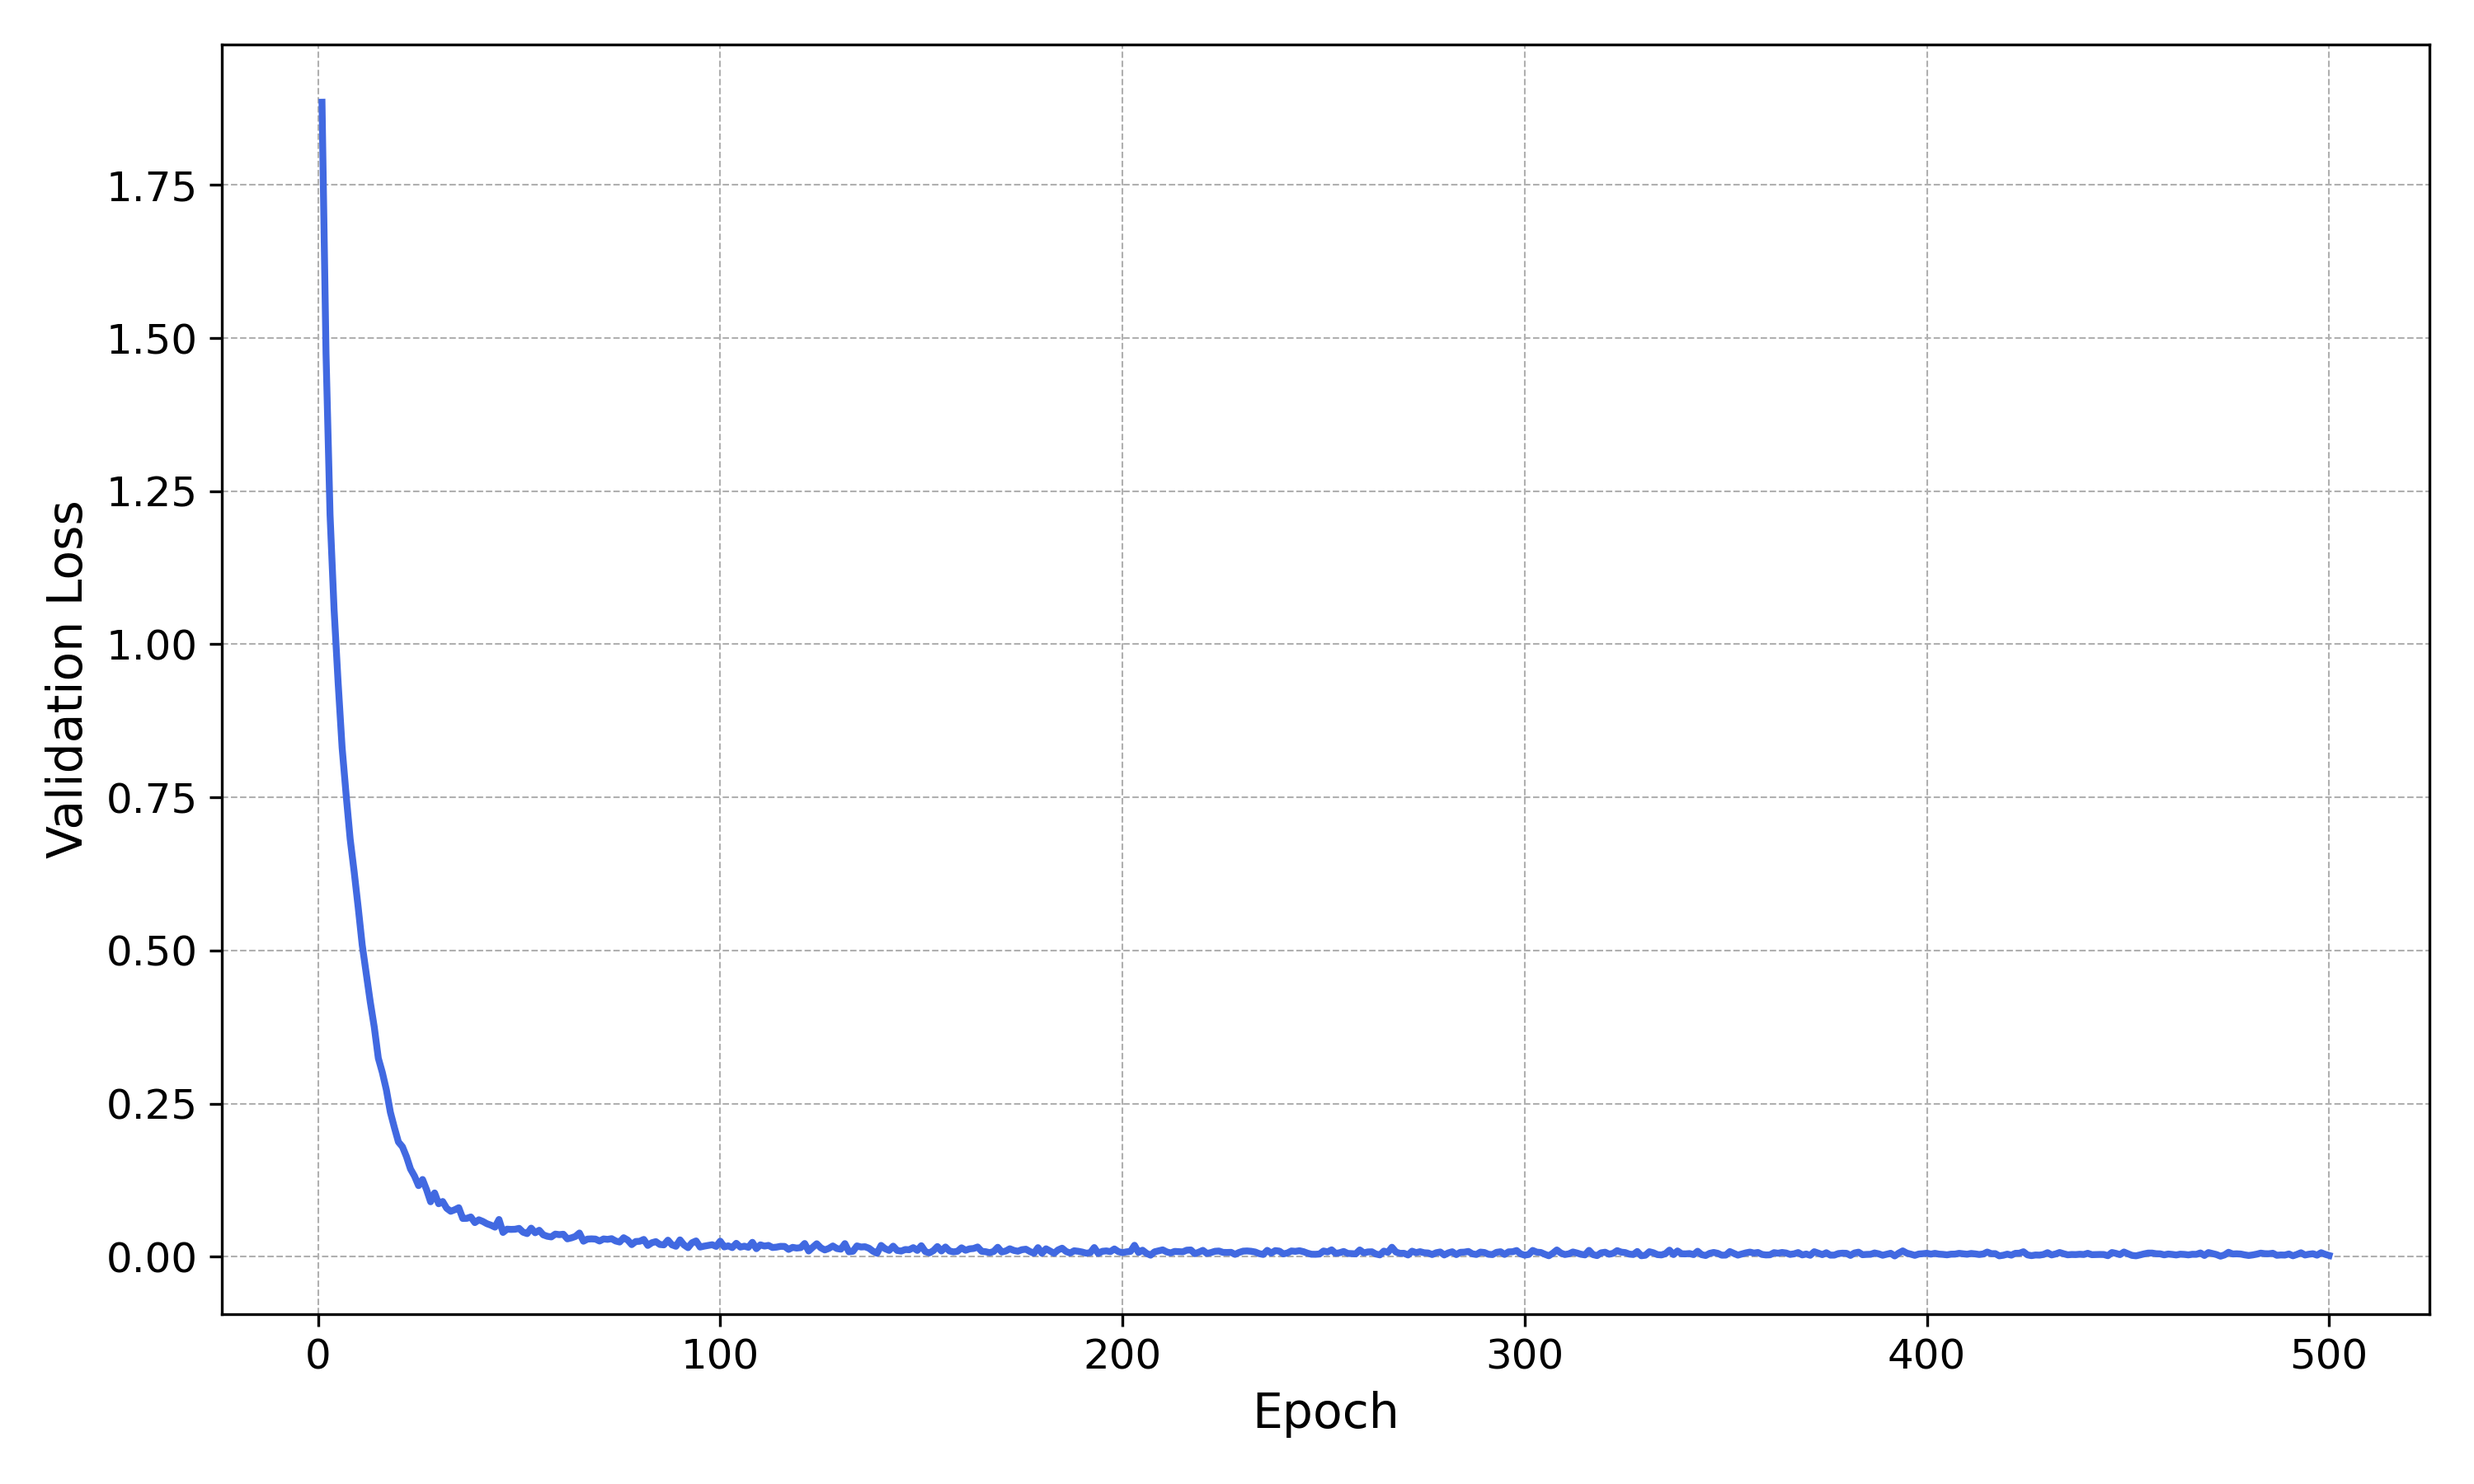
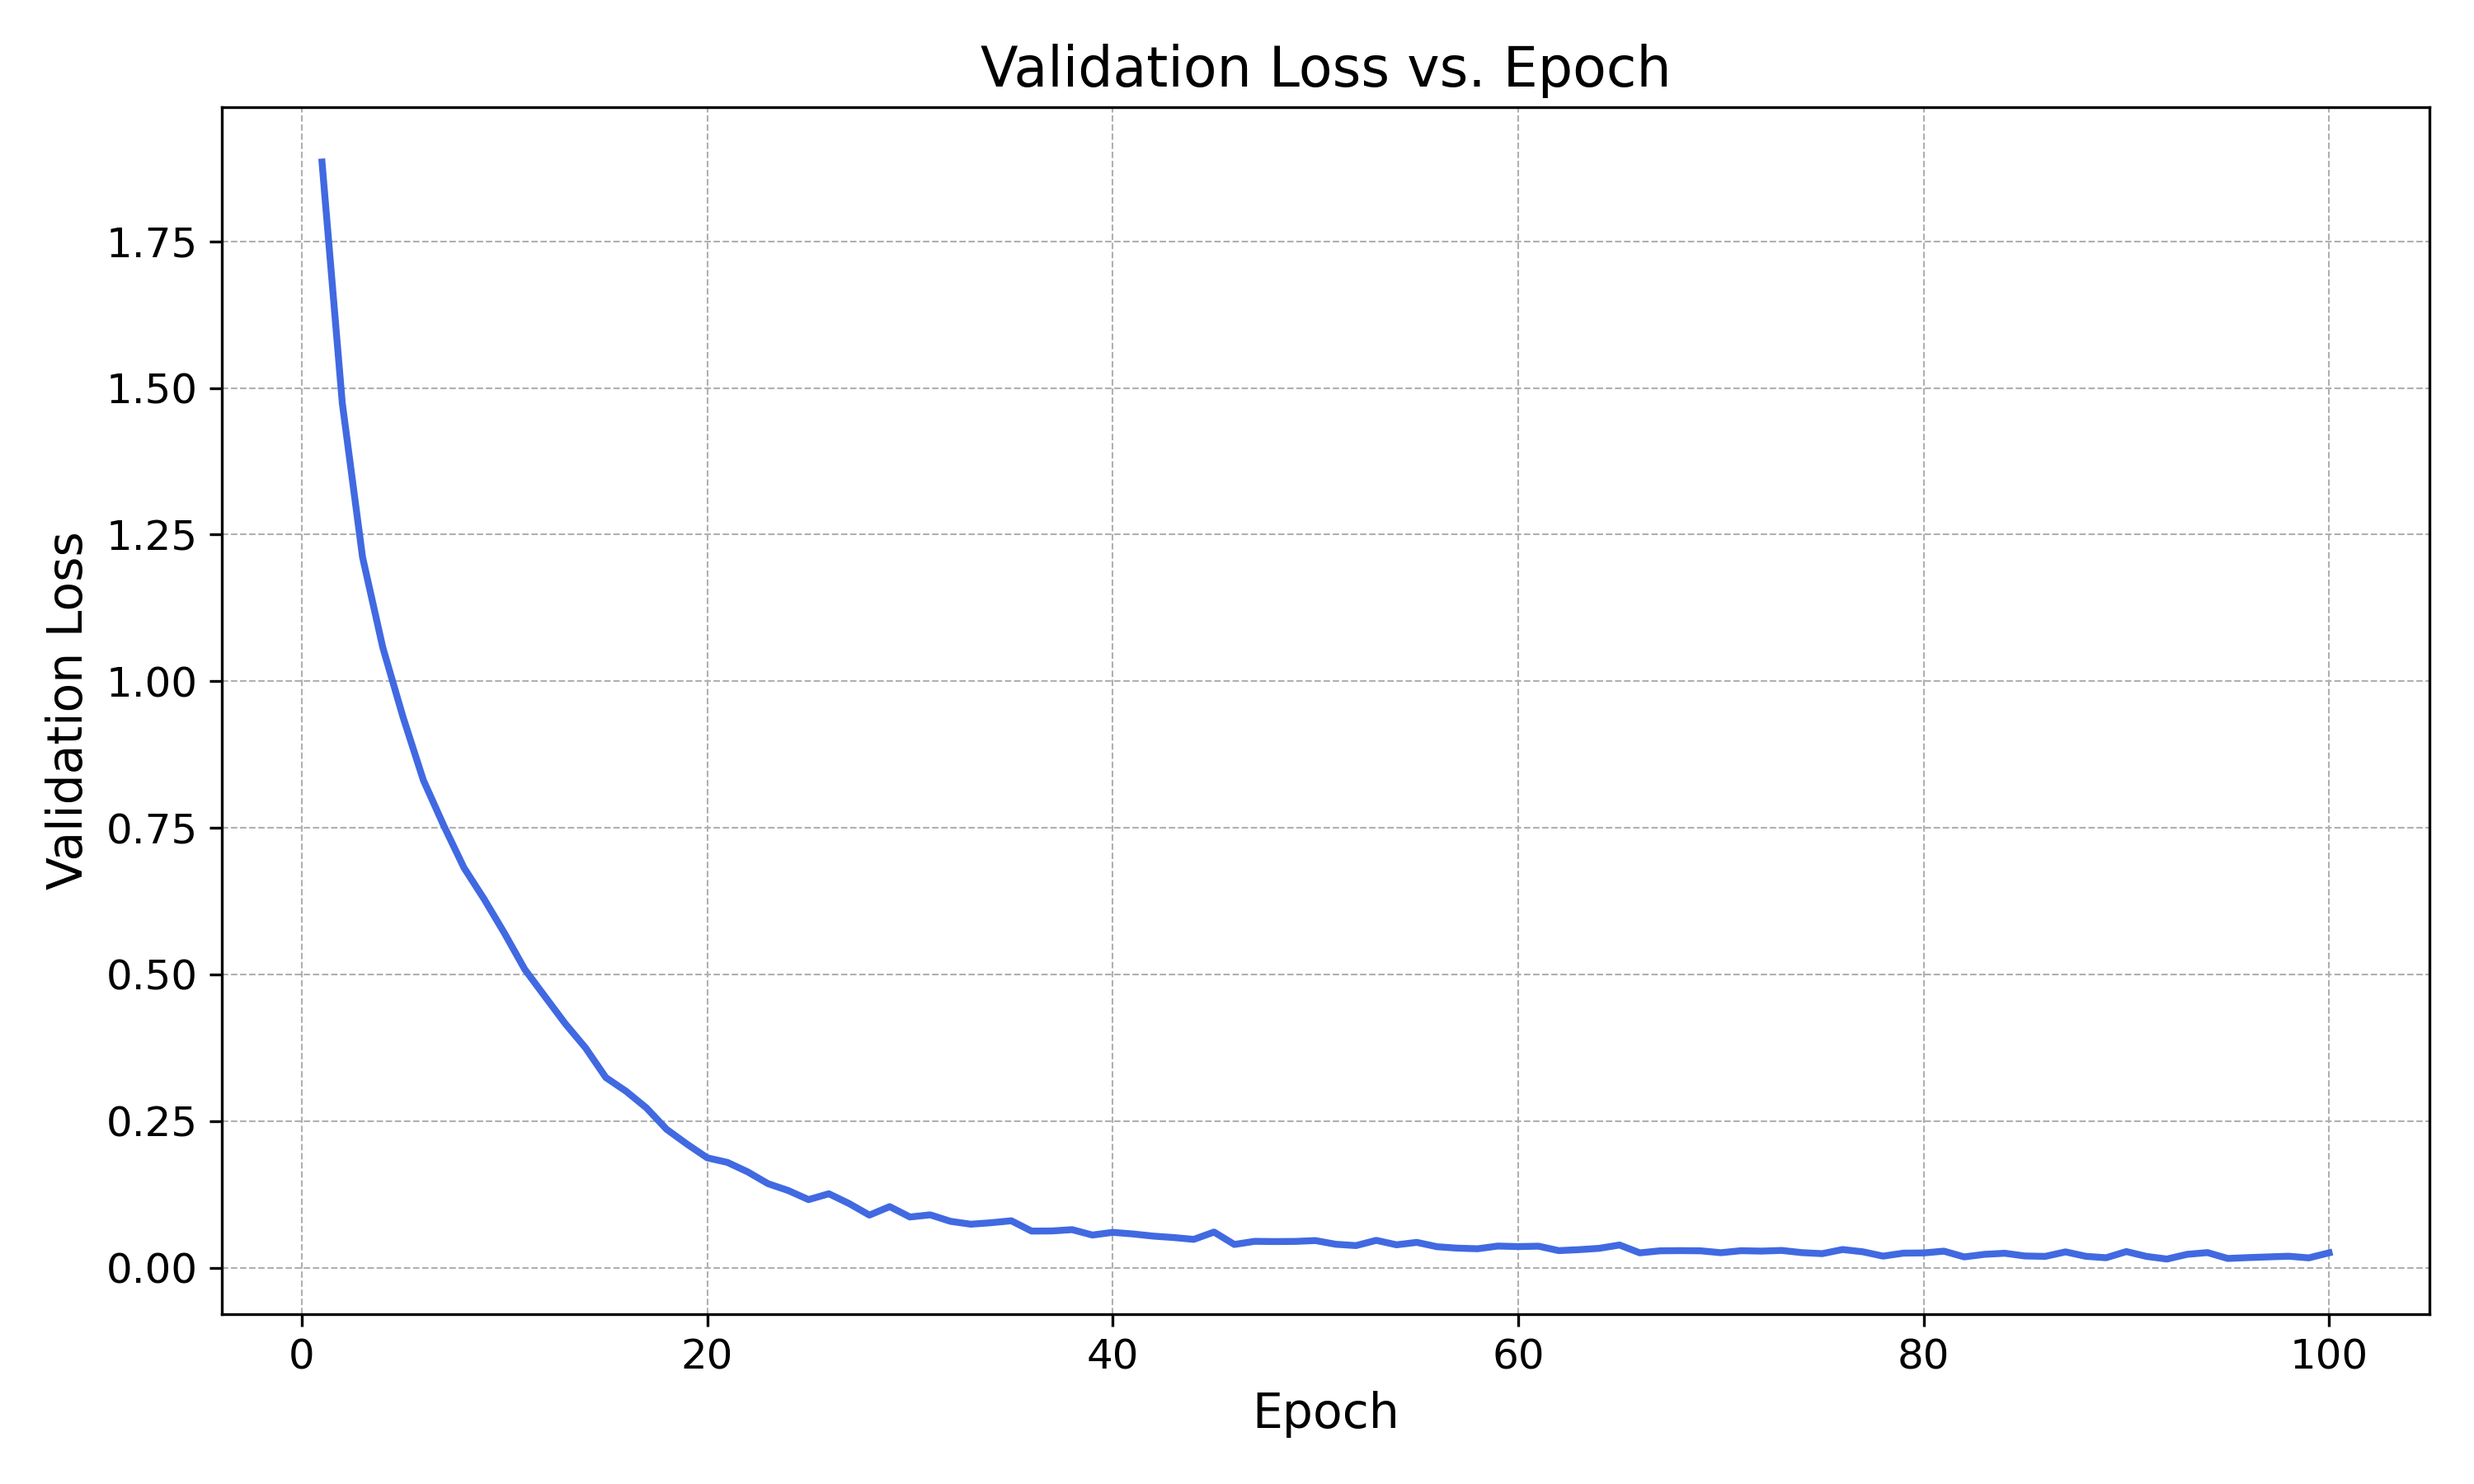
added unified plots and fixed requirments.txt

diff --git a/plot.py b/plot.py
@@ -12,21 +12,40 @@ os.makedirs(output_path, exist_ok=True)
 
 df = pd.read_csv(file_name)
 
+# normalize validation accuracy
+df["Validation Accuracy"] = df["Validation Accuracy"] / 100
+
+# Filter out epochs greater than 100
+df = df[df["Epoch"] <= 100]
+
 # Define larger font and figure size
 plt.rcParams.update({'font.size': 12})
-plt.rcParams["figure.figsize"] = (10, 6)
 
-metrics = ["Validation Loss", "Validation Accuracy", "Precision", "Recall", "F1 Score"]
-colors = ['royalblue', 'darkorange', 'green', 'purple', 'red']
+plt.figure(figsize=(10, 6))
+plt.plot(df["Epoch"], df["Validation Loss"], linestyle='-', linewidth=2, color='royalblue', label="Validation Loss")
+plt.xlabel("Epoch", fontsize=14)
+plt.ylabel("Validation Loss", fontsize=14)
+plt.title("Validation Loss vs. Epoch", fontsize=16)
+plt.grid(True, which='both', linestyle='--', linewidth=0.5)
+plt.tight_layout()
+output_file_loss = f"{output_path}/Validation_Loss_vs_Epoch.png"
+plt.savefig(output_file_loss, dpi=300)
+print(f"Validation Loss plot saved to {output_file_loss}")
 
-for metric, color  in zip(metrics, colors):
-    plt.figure()
-    plt.plot(df["Epoch"], df[metric], linestyle='-', linewidth=2 ,color=color)
-    plt.xlabel("Epoch", fontsize=14)
-    plt.ylabel(metric, fontsize=14)
-    plt.grid(True, which='both', linestyle='--', linewidth=0.5)
+# Plot other metrics together
+metrics = ["Validation Accuracy", "Precision", "Recall", "F1 Score"]
+colors = ['darkorange', 'green', 'purple', 'red']
 
-    # Adjust save path for readability and structure
-    plt.tight_layout()
-    plt.savefig(f"{output_path}/{metric.replace(' ', '_')}_vs_Epoch.png", dpi=300)
-    plt.close()
+plt.figure(figsize=(10, 6))
+for metric, color in zip(metrics, colors):
+    plt.plot(df["Epoch"], df[metric], linestyle='-', linewidth=2, color=color, label=metric)
+
+plt.xlabel("Epoch", fontsize=14)
+plt.ylabel("Metric Value", fontsize=14)
+plt.title("Metrics vs. Epoch", fontsize=16)
+plt.legend(fontsize=12)
+plt.grid(True, which='both', linestyle='--', linewidth=0.5)
+plt.tight_layout()
+output_file_metrics = f"{output_path}/Metrics_Excluding_Validation_Loss_vs_Epoch.png"
+plt.savefig(output_file_metrics, dpi=300)
+print(f"Other metrics plot saved to {output_file_metrics}")
